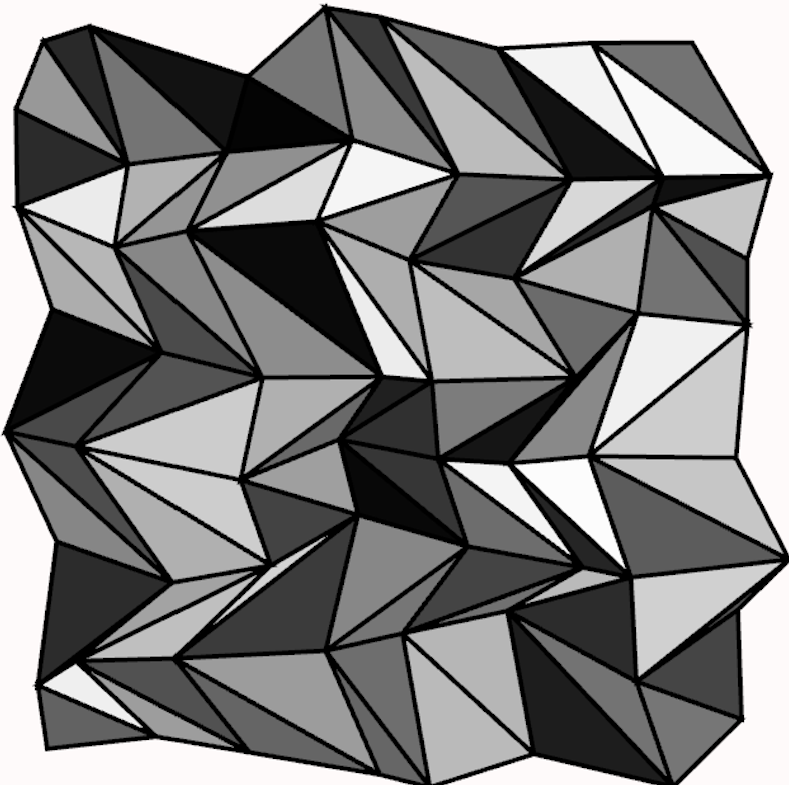
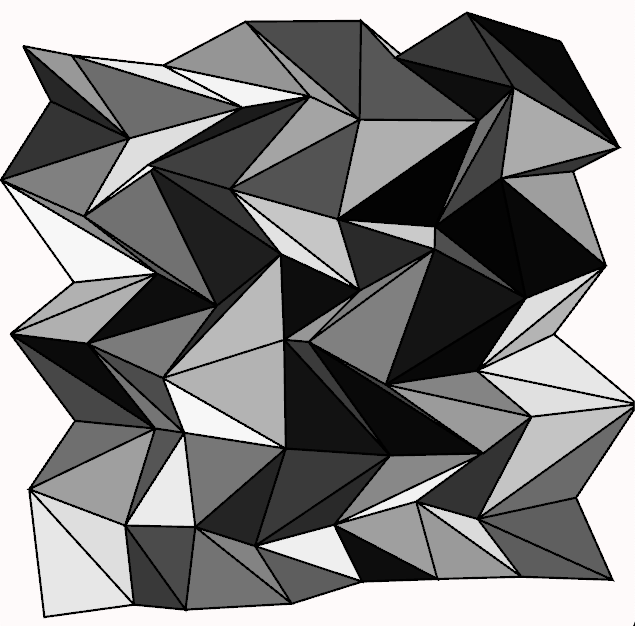
change line_width

diff --git a/triangular_mesh/src/main.rs b/triangular_mesh/src/main.rs
@@ -3,7 +3,7 @@ use nannou::prelude::*;
 const SIZE: u32 = 320;
 const WIDTH: u32 = 320;
 const HEIGHT: u32 = 320;
-const LINE_WIDTH: f32 = 2.0;
+const LINE_WIDTH: f32 = 1.2;
 const GAP: u32 = SIZE / 8;
 
 fn main() {
